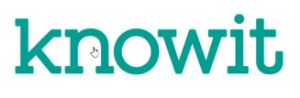
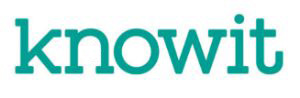
Borttagna muspekare

diff --git a/src/componenets/PopupCompany.js b/src/componenets/PopupCompany.js
@@ -39,25 +39,25 @@ export default class CompaniesLocation extends React.Component {
 		console.log(param);
 		switch (param) {
 			case 'Atea':
-				return <a href={link}> <img src={Atea} alt={'Link to Atea web page'}/></a>;
+				return <a href={link}> <img src={Atea} width={'133px'} alt={'Link to Atea web page'}/></a>;
 			case 'CGI':
-				return <a href={link}> <img src={CGI} alt={'Link to CGI web page'}/></a>;
+				return <a href={link}> <img src={CGI} width={'133px'} alt={'Link to CGI web page'}/></a>;
 			case 'Knowit':
-				return <a href={link}> <img src={Knowit} alt={'Link to Knowit web page'}/></a>;
+				return <a href={link}> <img src={Knowit} width={'133px'} alt={'Link to Knowit web page'}/></a>;
 			case 'Headlight':
-				return <a href={link}> <img src={Headlight} alt={'Link to Headlight web page'}/></a>;
+				return <a href={link}> <img src={Headlight} width={'133px'} alt={'Link to Headlight web page'}/></a>;
 			case 'Xlent':
-				return <a href={link}> <img src={Xlent} alt={'Link to Xlent web page'}/></a>;
+				return <a href={link}> <img src={Xlent} width={'133px'} alt={'Link to Xlent web page'}/></a>;
 			case 'Panang':
-				return <a href={link}> <img src={Panang} alt={'Link to Panang web page'}/></a>;
+				return <a href={link}> <img src={Panang} width={'133px'} alt={'Link to Panang web page'}/></a>;
 			case 'Tension':
-				return <a href={link}> <img src={Tension} alt={'Link to Tension web page'}/></a>;
+				return <a href={link}> <img src={Tension} width={'133px'} alt={'Link to Tension web page'}/></a>;
 			case 'Nethouse':
-				return <a href={link}> <img src={Nethouse} alt={'Link to NetHouse web page'}/></a>;
+				return <a href={link}> <img src={Nethouse} width={'133px'} alt={'Link to NetHouse web page'}/></a>;
 			case 'IT System Dalarna':
-				return <a href={link}> <img src={ITSystem} alt={'Link to IT System Dalarna web page'}/></a>;
+				return <a href={link}> <img src={ITSystem} width={'133px'} alt={'Link to IT System Dalarna web page'}/></a>;
 			case 'Triatech':
-				return <a href={link}> <img src={Triatech} alt={'Link to Tritech web page'}/></a>;
+				return <a href={link}> <img src={Triatech} width={'133px'} alt={'Link to Tritech web page'}/></a>;
 
 			default:
 				return '';

diff --git a/src/App.js b/src/App.js
@@ -1,3 +1,5 @@
+// TODO när popup öppnas första gången kommer bilderna utanför på heroku
+
 // TODO Gör klart komponeneter, med miniumum krav för funktion design
 
 //TODO PopupUser: Next buss komponenten fungerar ej i egen koponent
@@ -28,7 +30,9 @@
 // h17erial@du.se
 // -:4mDXKuStDs49M
 
+
 import React, {Component} from 'react';
+
 import {Map, TileLayer, Marker, Popup, LayersControl, CircleMarker} from 'react-leaflet';
 import L from 'leaflet';
 import './App.css';

diff --git a/src/componenets/PopupCompany.css b/src/componenets/PopupCompany.css
@@ -1,5 +1,5 @@
 .popupCompanyImageDiv {
-    display: flex;
+    /*display: flex;*/
     justifyContent: center;
 }
 .popupCompanyDiv{
